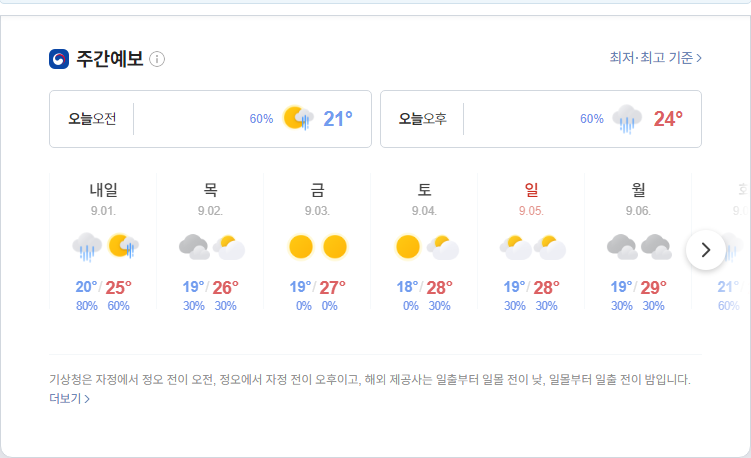
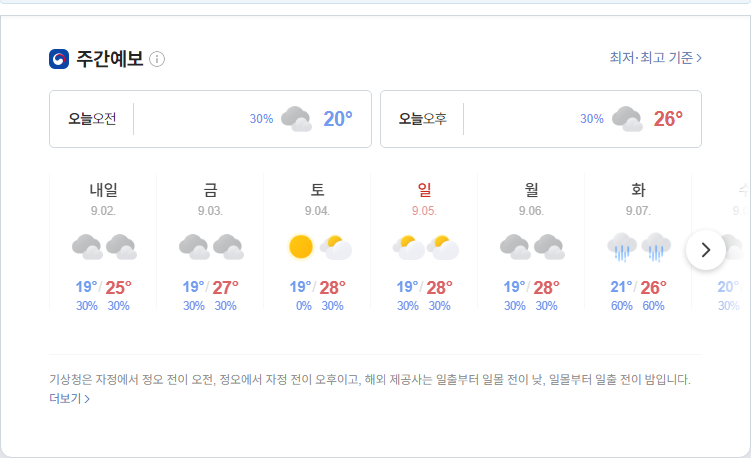
update result

diff --git a/README.md b/README.md
@@ -1,5 +1,5 @@
-##  2021-08-31 16:03:25   화요일 
-##### 날씨   -   어제보다 9° 낮아요비  
+##  2021-09-01 05:54:44   수요일 
+##### 날씨   -   어제보다 1° 낮아요구름많음  
 <center><img src="../img/naver_weather_week.png"></center>
 ----
 ----
@@ -13,17 +13,17 @@
 ##### 세계
 <table border="1" bordercolor="blue" align = "center" >
 <tr align = "right" > <td>Item</td><td>Point</td><td>Diff</td><td>Rate</td><td>Buy</td><td>Sell</td><td>...</td>  </tr>
-<tr align = "right" > <td>DOW</td><td>35,399.84</td><td>-55.96</td><td><font size="3" color="blue" >-0.16%</font></td><td><font size="3" color="black">0</font></td><td><font size="3" color="black">0</font></td><td>0</td>  </tr>
-<tr align = "right" > <td>NASDAQ</td><td>15,265.89</td><td>136.39</td><td><font size="3" color="red" >0.9%</font></td><td><font size="3" color="black">0</font></td><td><font size="3" color="black">0</font></td><td>0</td>  </tr>
-<tr align = "right" > <td>S&P</td><td>4,528.79</td><td>19.42</td><td><font size="3" color="red" >0.43%</font></td><td><font size="3" color="black">0</font></td><td><font size="3" color="black">0</font></td><td>0</td>  </tr>
-<tr align = "right" > <td>SHANHAI</td><td>3,535.69</td><td>7.54</td><td><font size="3" color="red" >0.21%</font></td><td><font size="3" color="black">0</font></td><td><font size="3" color="black">0</font></td><td>0</td>  </tr>
-<tr align = "right" > <td>INDIA</td><td>57,088.96</td><td>199.2</td><td><font size="3" color="red" >0.35%</font></td><td><font size="3" color="black">0</font></td><td><font size="3" color="black">0</font></td><td>0</td>  </tr>
+<tr align = "right" > <td>DOW</td><td>35,360.73</td><td>-39.11</td><td><font size="3" color="blue" >-0.11%</font></td><td><font size="3" color="black">0</font></td><td><font size="3" color="black">0</font></td><td>0</td>  </tr>
+<tr align = "right" > <td>NASDAQ</td><td>15,259.24</td><td>-6.65</td><td><font size="3" color="blue" >-0.04%</font></td><td><font size="3" color="black">0</font></td><td><font size="3" color="black">0</font></td><td>0</td>  </tr>
+<tr align = "right" > <td>S&P</td><td>4,522.68</td><td>-6.11</td><td><font size="3" color="blue" >-0.13%</font></td><td><font size="3" color="black">0</font></td><td><font size="3" color="black">0</font></td><td>0</td>  </tr>
+<tr align = "right" > <td>SHANHAI</td><td>3,543.94</td><td>15.79</td><td><font size="3" color="red" >0.45%</font></td><td><font size="3" color="black">0</font></td><td><font size="3" color="black">0</font></td><td>0</td>  </tr>
+<tr align = "right" > <td>INDIA</td><td>57,552.39</td><td>662.63</td><td><font size="3" color="red" >1.16%</font></td><td><font size="3" color="black">0</font></td><td><font size="3" color="black">0</font></td><td>0</td>  </tr>
 </table>
 ----
 ##### 시장
 <table border="1" bordercolor="blue" align = "center" >
 <tr align = "right" > <td>Item</td><td>Price</td><td>Diff</td><td>Rate</td><td>Buy</td><td>Sell</td><td>...</td>  </tr>
-<tr align = "right" > <td>USD</td><td>1,160.0</td><td>-5.0</td><td><font size="3" color="blue">-0.43%</font></td><td><font size="3" color="black">1,110</font></td><td><font size="3" color="black">0</font></td><td>0</td>  </tr>
+<tr align = "right" > <td>USD</td><td>1,157.0</td><td>-7.5</td><td><font size="3" color="blue">-0.64%</font></td><td><font size="3" color="black">1,110</font></td><td><font size="3" color="black">0</font></td><td>0</td>  </tr>
 <tr align = "right" > <td>WTI</td><td>69.21</td><td>0.47</td><td><font size="3" color="red">0.68%</font></td><td><font size="3" color="black">29.0</font></td><td><font size="3" color="black">0</font></td><td>0</td>  </tr>
 <tr align = "right" > <td>GOLD</td><td>1,809.0</td><td>-7.6</td><td><font size="3" color="blue">-0.41%</font></td><td><font size="3" color="black">0</font></td><td><font size="3" color="black">0</font></td><td>0</td>  </tr>
 </table>
